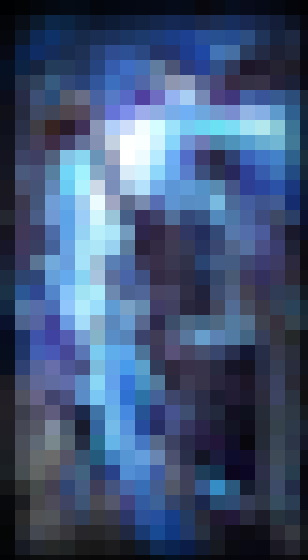
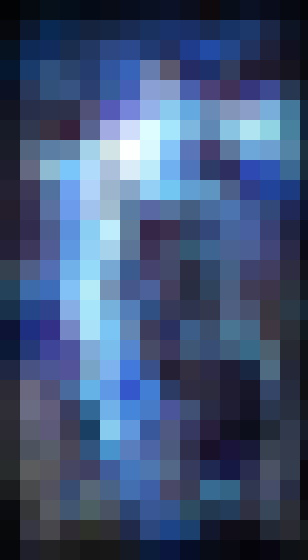
with json and reactions

diff --git a/guess_champion.py b/guess_champion.py
@@ -2,12 +2,16 @@ import discord
 import settings
 import asyncio
 import time
+import json
+import random
 
 timeout = 10
 
 
 async def guess(client):
-    file = discord.File("assets/pixelated/xerath.jpg", filename="xerath.jpg")
+    champion = pick_champion()
+
+    file = discord.File("assets/pixelated/"+champion['image'], filename=champion['image'])  # pixéliser 20
 
     embed = discord.Embed(
         title='Who\'s that champion ?',
@@ -15,17 +19,32 @@ async def guess(client):
     )
 
     embed.set_image(
-        url="attachment://xerath.jpg"
+        url="attachment://"+champion['image']
     )
 
     await client.get_channel(settings.CHANNEL).send(file=file, embed=embed)
 
     end = time.time() + timeout
+    win = False
 
     while time.time() < end:
         try:
-            msg = await client.wait_for("message", check=None, timeout=end-time.time())
+            msg = await client.wait_for("message", check=None, timeout=end - time.time())
+
+            if msg.content == champion['name']:
+                await msg.add_reaction('✅')
+                await client.get_channel(settings.CHANNEL).send('**Bien joué, vous gagnez ' + str(champion['points']) + ' points !**')
+                win = True
+            else:
+                await msg.add_reaction('❌')
         except asyncio.TimeoutError:
             break
 
-    await client.get_channel(settings.CHANNEL).send('**Le jeu est fini, vous n\'avez pas trouvé !**')
+    if not win:
+        await client.get_channel(settings.CHANNEL).send('**Le jeu est fini, vous n\'avez pas trouvé !**')
+
+
+def pick_champion():
+    with open("champions.json") as file:
+        content = json.load(file)
+        return content[random.randint(0, len(content)-1)]
